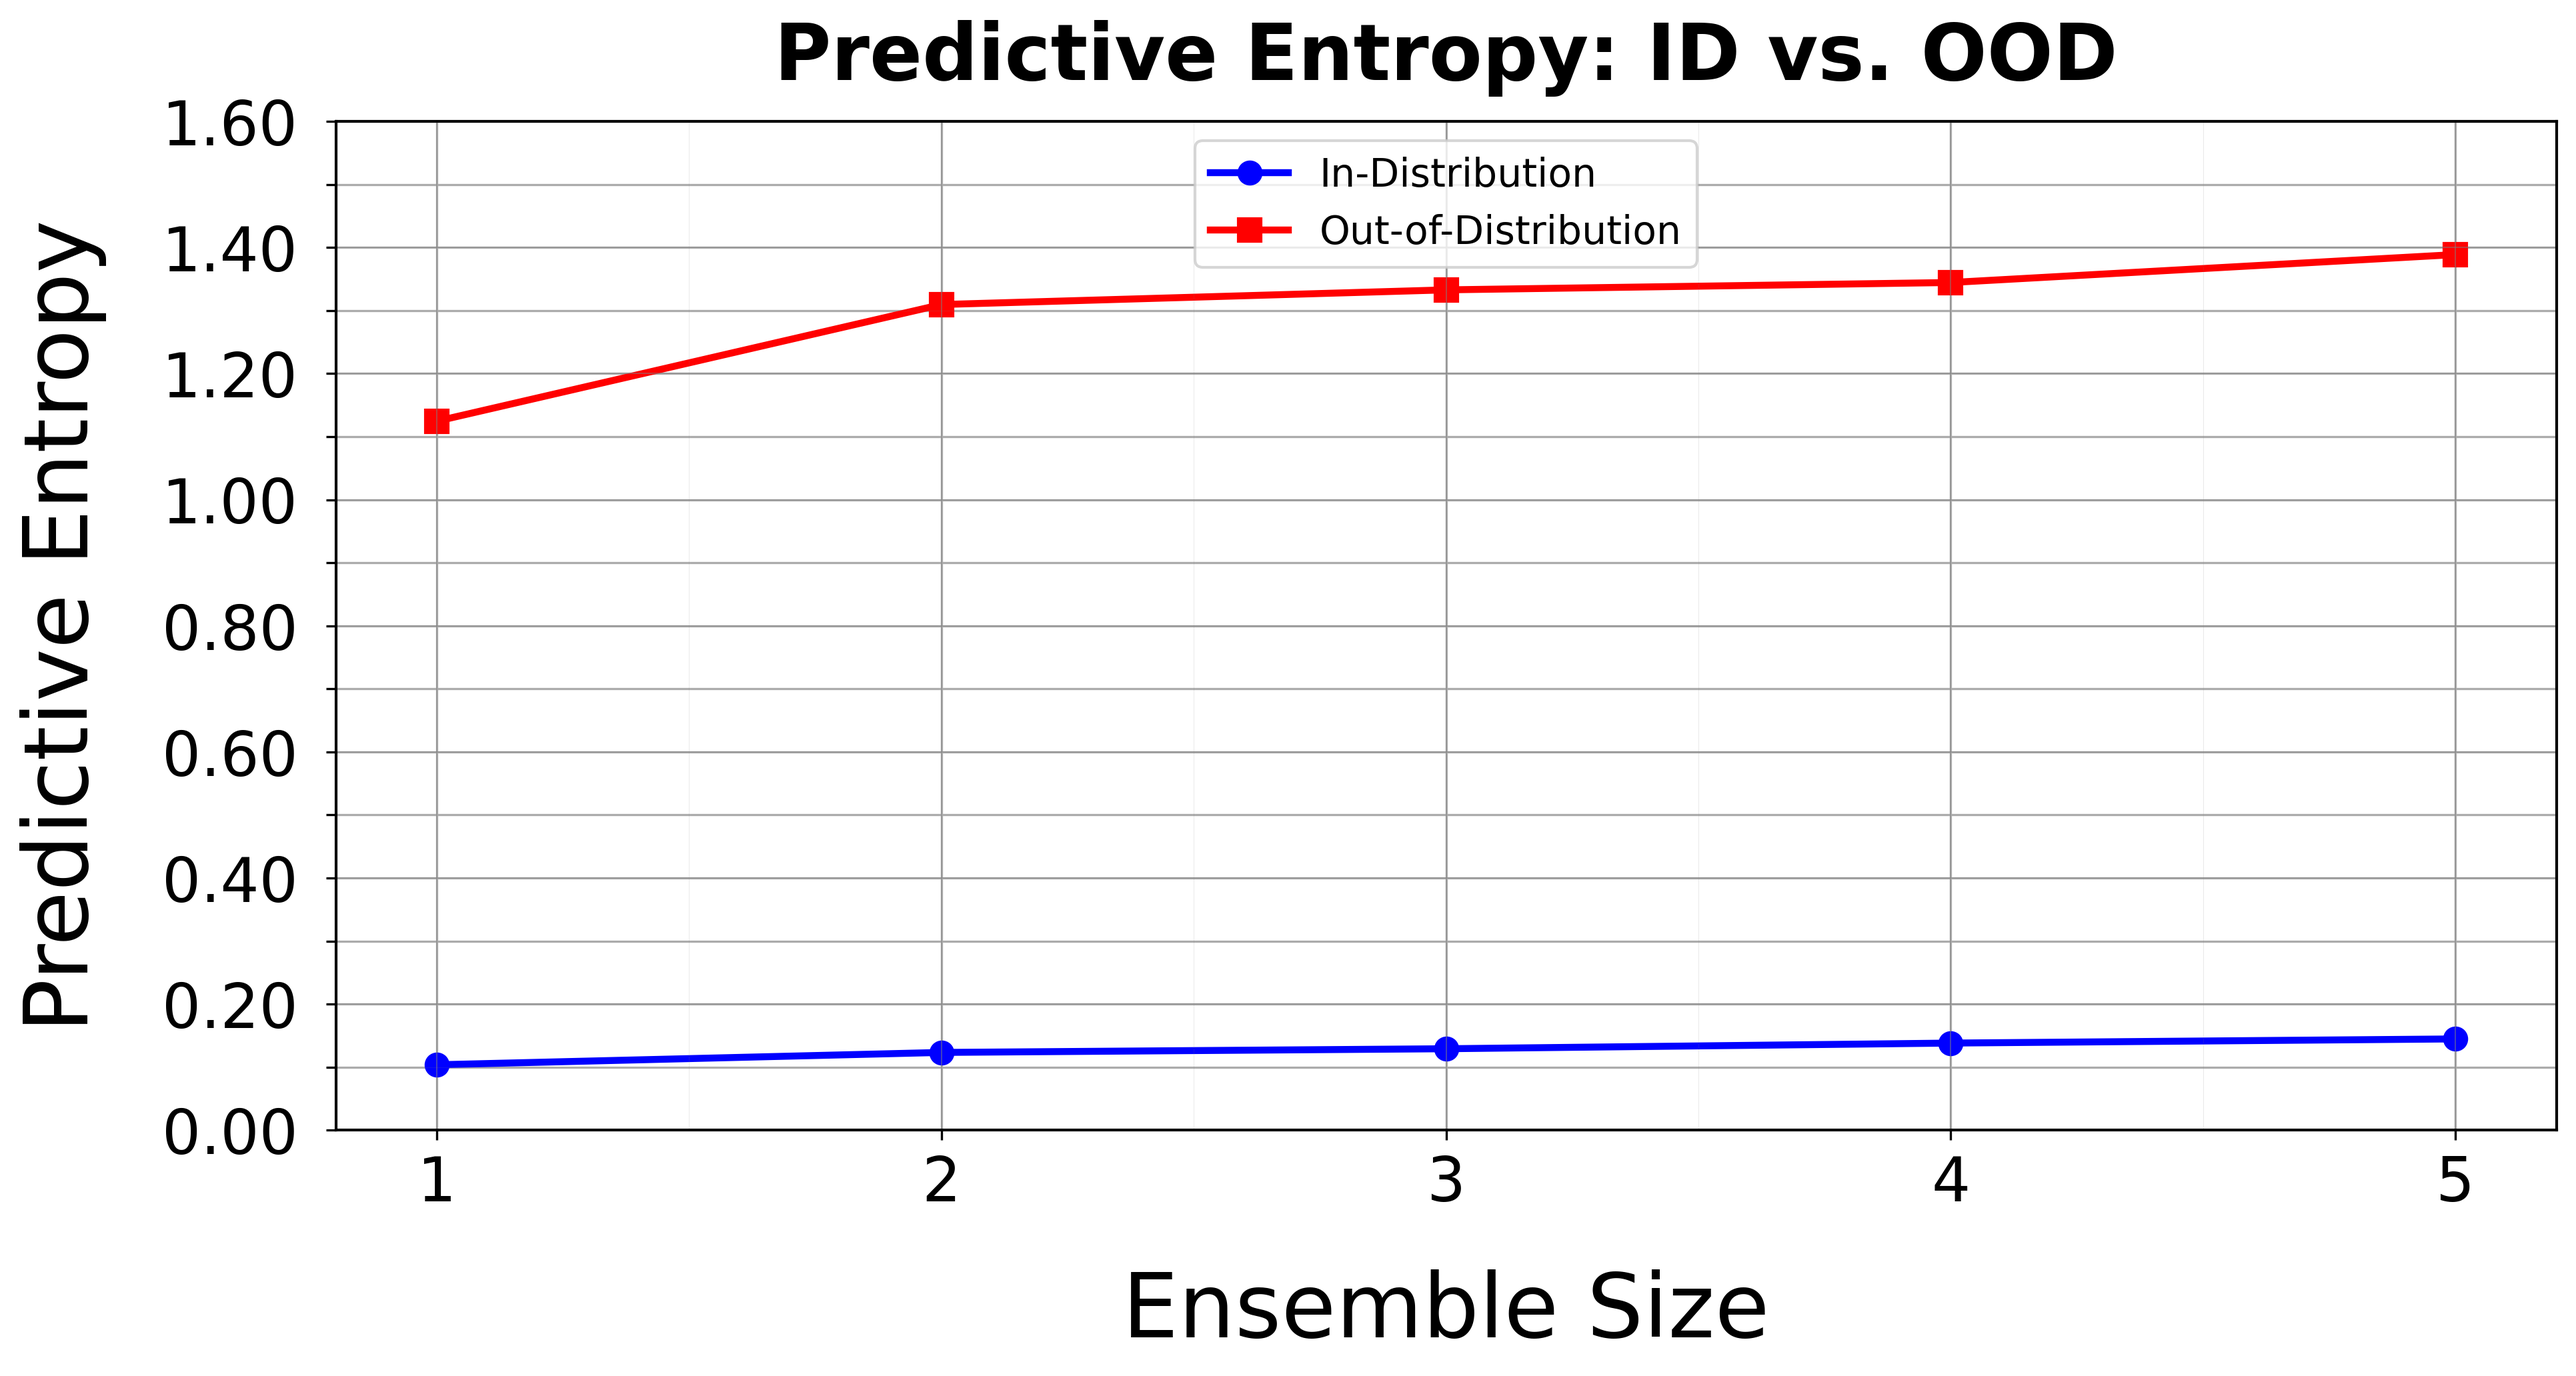
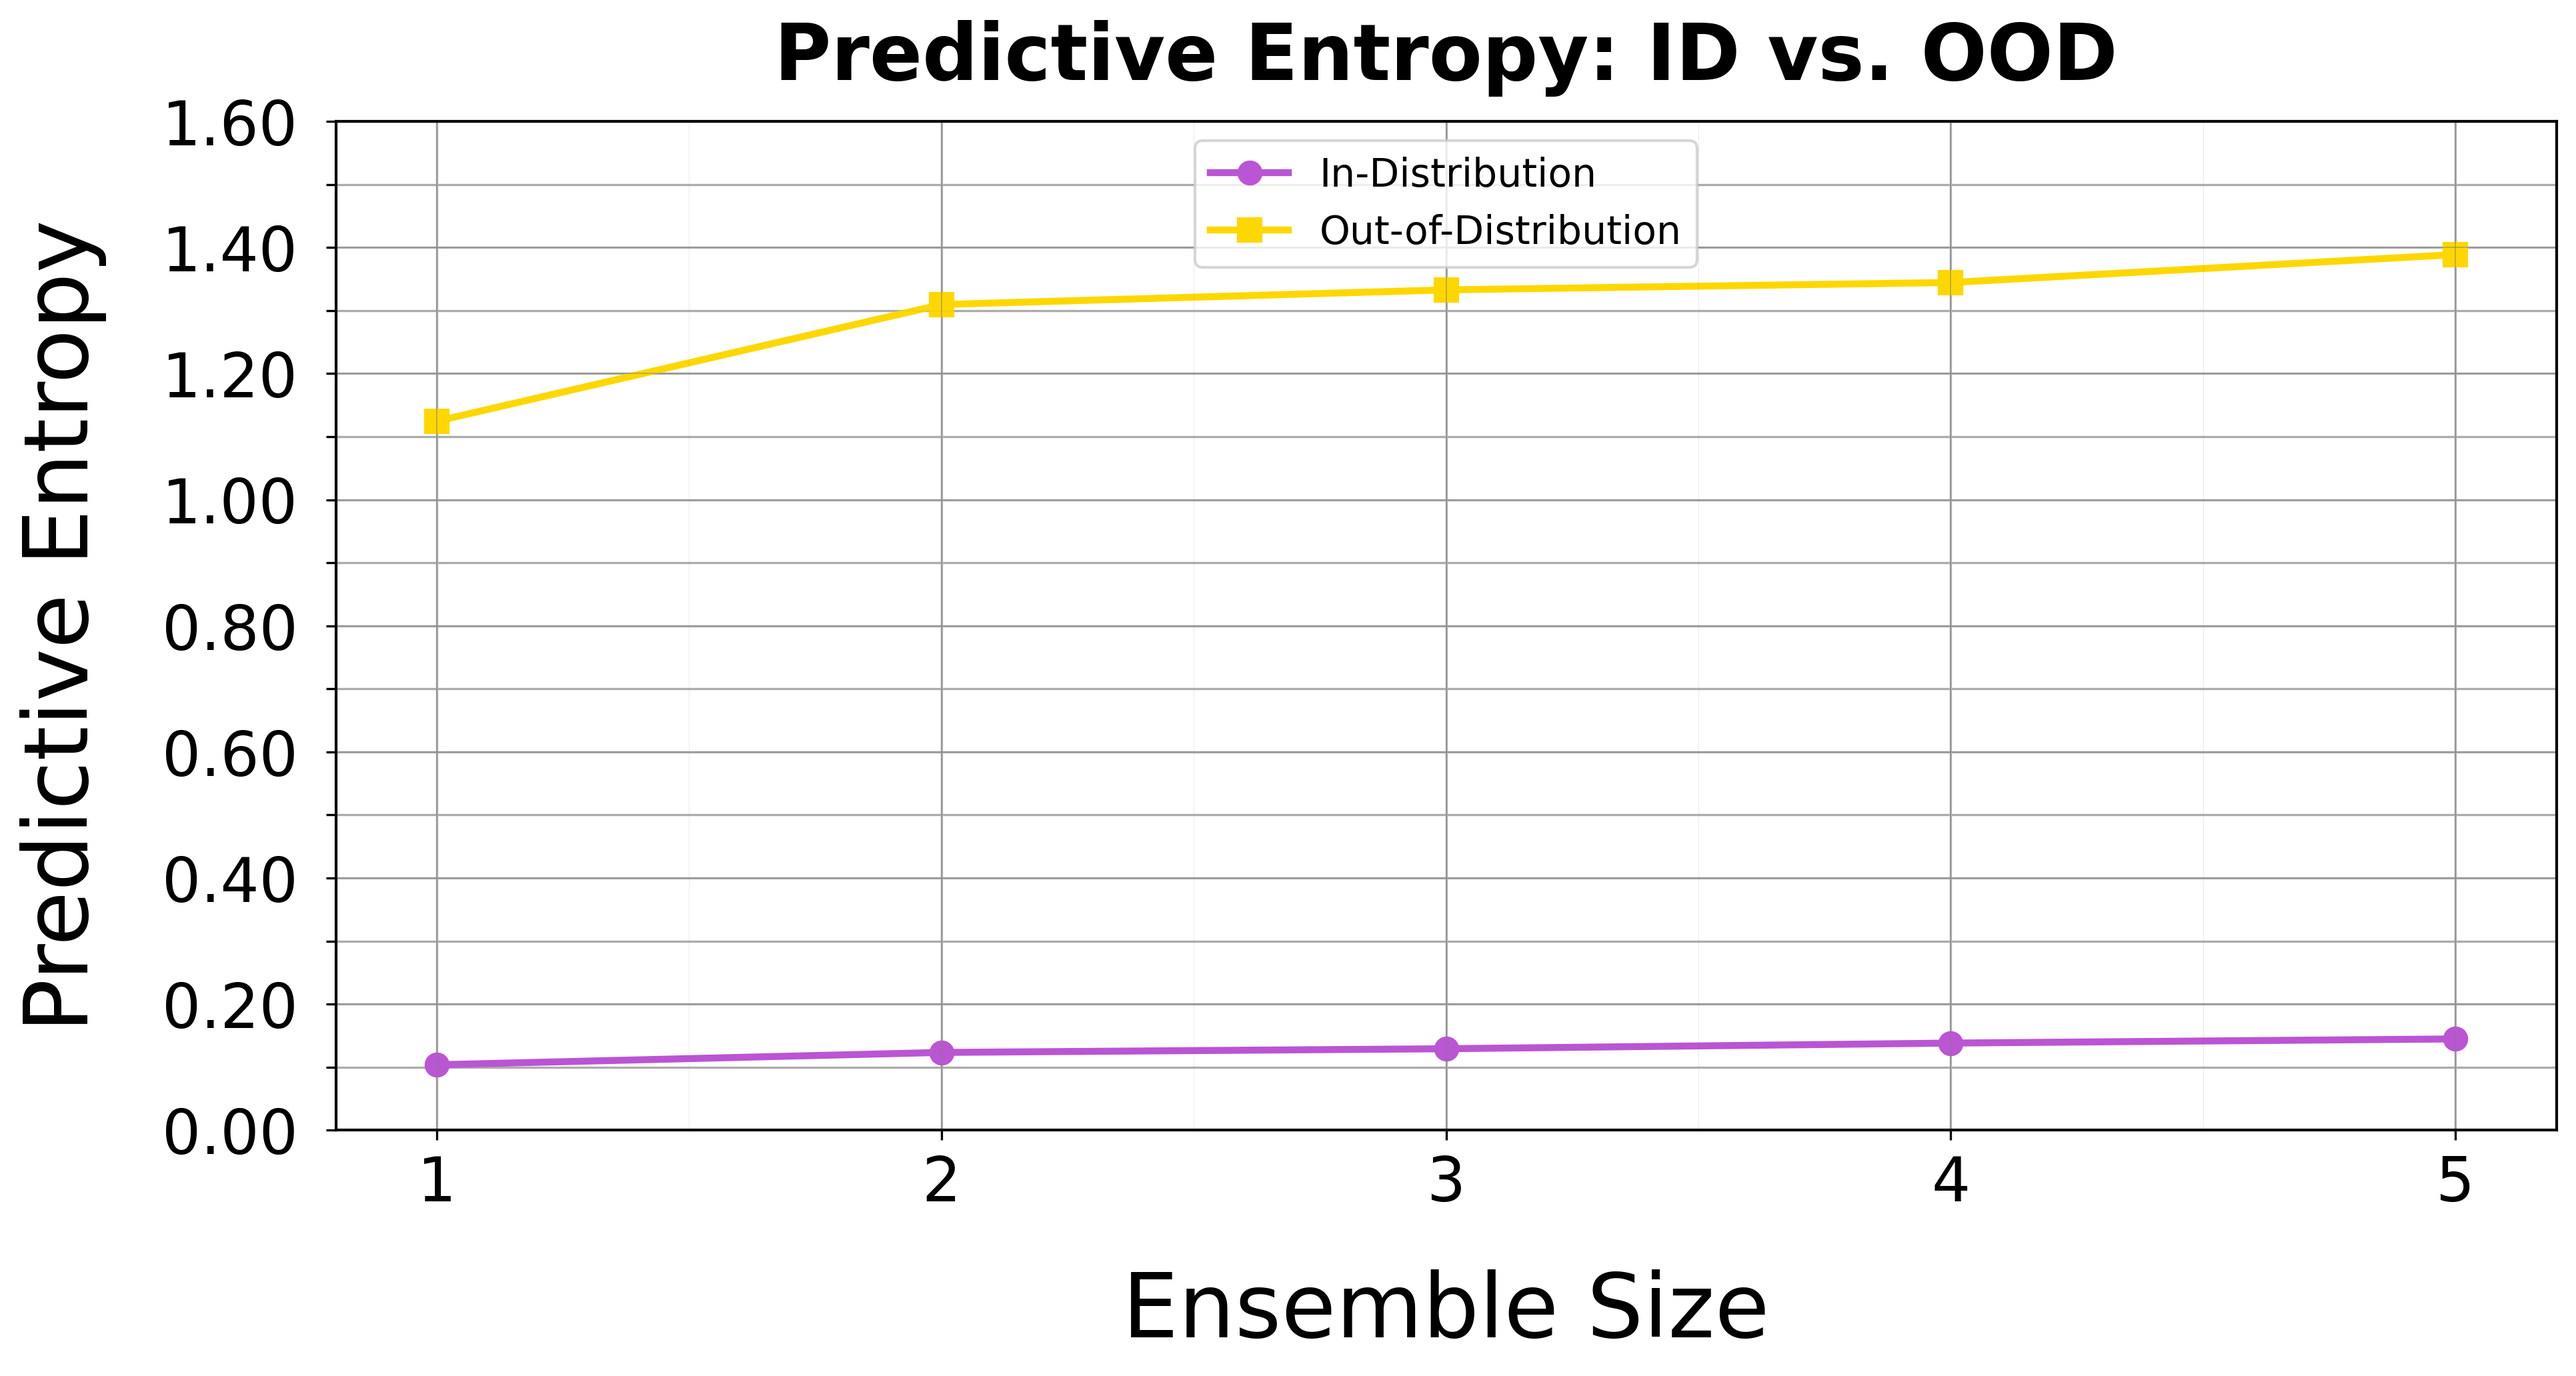
Changes

diff --git a/test.py b/test.py
@@ -115,9 +115,9 @@ entropy_ood    = df_ensemble_metrics_ood["Predictive Entropy"].tolist()    # OOD
 fig, ax = plt.subplots(figsize=(12, 6))
 
 ax.plot(ensemble_sizes, entropy_id,  marker="o", linewidth=2.5,
-        markersize=8, color="blue",  label="In-Distribution")
+        markersize=8, color="mediumorchid",  label="In-Distribution")
 ax.plot(ensemble_sizes, entropy_ood, marker="s", linewidth=2.5,
-        markersize=8, color="red",   label="Out-of-Distribution")
+        markersize=8, color="gold",   label="Out-of-Distribution")
 
 ax.set_xlabel("Ensemble Size")
 ax.set_ylabel("Predictive Entropy")
@@ -128,7 +128,7 @@ ax.legend(fontsize=14)
 ax.grid(True)
 fig.tight_layout()
 apply_custom_theme(ax)
-
+plt.show()
 # === Speichern (optional) ====================================================
 
 output_dir = "plots/Saved_Plots"
@@ -138,4 +138,4 @@ os.makedirs(output_dir, exist_ok=True)
 filename = f"predictive_entropy_{file_suffix}.png"
 fig.savefig(os.path.join(output_dir, filename), bbox_inches="tight", dpi=300)
 
-plt.show()
+
